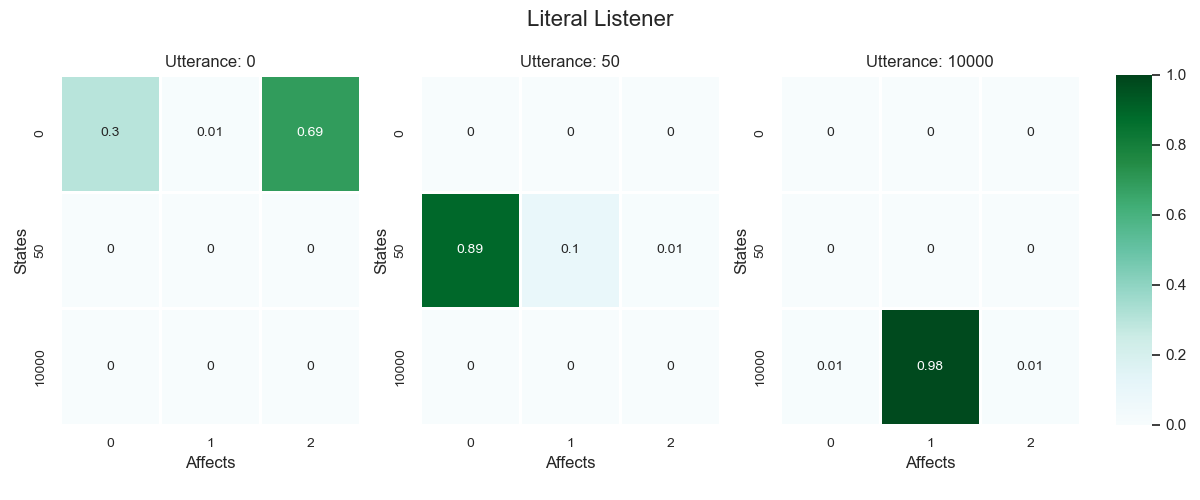
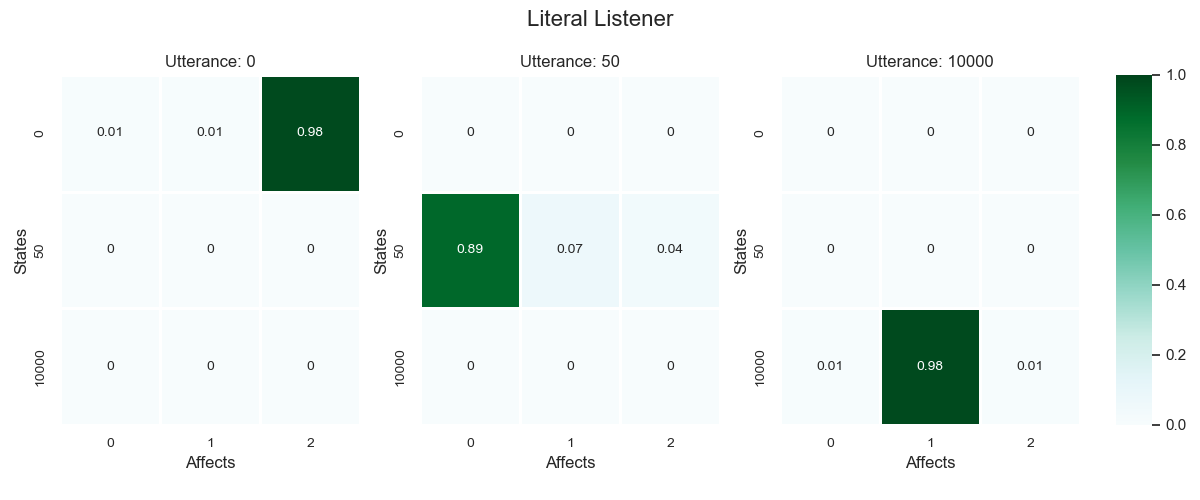
Change priors for positive attitude hyperbolic utterance

Changed region(s): [[0.0308, 0.15, 0.1542, 0.39], [0.2158, 0.15, 0.3083, 0.39], [0.4625, 0.48, 0.4933, 0.51]]

diff --git a/nonliteral_rsa.py b/nonliteral_rsa.py
@@ -333,11 +333,11 @@ if __name__ == '__main__':
 	A = np.array([0, 1, 2])
 	lex = np.identity(len(U))
 	# s_prior[s] = P(s)
-	s_prior = np.array([0.1, 0.89, 0.01])
+	s_prior = np.array([0.01, 0.985, 0.005])
 	# as_prior[s][a] = P(a|s)
 	as_prior = np.array(
-				[[0.3, 0.01, 0.69],
-				 [0.89, 0.1, 0.01],
+				[[0.01, 0.01, 0.98],
+				 [0.89, 0.07, 0.04],
 				 [0.01, 0.98, 0.01]]
 			   )
 
